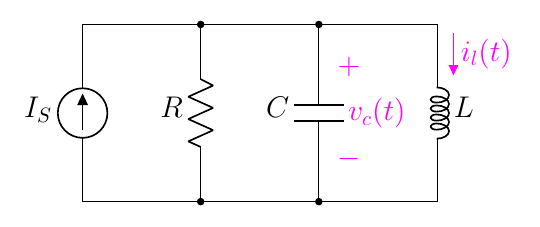
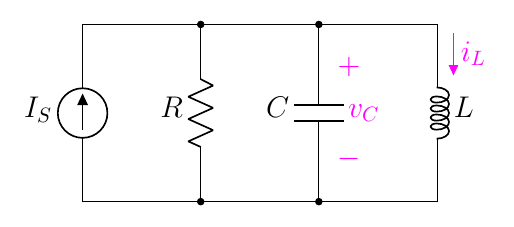
8.45

diff --git a/2.10 Step Response of a Parallel RLC/8.6 Complete Response Parallel/8.45(new).tex b/2.10 Step Response of a Parallel RLC/8.6 Complete Response Parallel/8.45(new).tex
@@ -30,10 +30,10 @@
     % \node at (3.2,1.5)[]{$t=0$};
 
     \draw[magenta](4.2,0.5)
-        to[open, v>=$v_c(t)$] ++(0,2);
+        to[open, v>=$v_C$] ++(0,2);
 
     \draw[circuitikz/current arrow color=magenta](6,3)
-        to[open,f>^=$\color{magenta}{i_l(t)}$] ++(0,-2.4);
+        to[open,f>^=$\color{magenta}{i_L}$] ++(0,-2.4);
 
 \end{circuitikz}
 \end{document}
